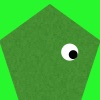
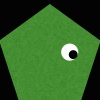
makekbstims working great! It's pretty slow though.

diff --git a/Stims/makeKenBurnsStims.m b/Stims/makeKenBurnsStims.m
@@ -137,35 +137,35 @@ for a=1:length(manners)
                     m_images(:,:,:,prefix+lens+k) = newimg;
                 end
                 
-                %KEN BURNS TIME!
-                %Calculate a (random) path for the movie to move around on
-                %the larger background, then plot everything into the
-                %bigger matrix.
+%                 %KEN BURNS TIME!
+%                 %Calculate a (random) path for the movie to move around on
+%                 %the larger background, then plot everything into the
+%                 %bigger matrix.
+%                 
+%                 %how long is the movie? Check here in case of mistakes :p 
+%                 final_len = size(m_images,4);
+%                 
+%                 kb_back = zeros(750, 1000, 3, final_len); %height, width, colors, length-in-frames
+%                 [kb_x, kb_y] = getKBPath(150, 200, final_len, 60); %30-fast 60-slow
+%                 
+%                 %this returns a random bounce-around in the box (diff 
+%                 %between small & big frames)that takes the final # of
+%                 %frames to move 1 segment.
+%                 
+%                 %Now plot my movie into the bigger (all black) movie!
+%                 
+%                 clear final_images;
+%                 
+%                 for i = 1:final_len
+%                     %draw movie on background! 
+%                     movToDraw = m_images(:,:,:,i);
+%                     [t, u, v] = size(movToDraw);
+%                     
+%                     newimg = placeImg(movToDraw, kb_back(:,:,:,i), kb_x(i),kb_y(i));
+%                     final_images(:,:,:,i) = newimg;
+%                 end
                 
-                %how long is the movie? Check here in case of mistakes :p 
-                final_len = size(m_images,4);
-                
-                kb_back = zeros(750, 1000, 3, final_len); %height, width, colors, length-in-frames
-                [kb_x, kb_y] = getKBPath(150, 200, final_len, 60); %30-fast 60-slow
-                
-                %this returns a random bounce-around in the box (diff 
-                %between small & big frames)that takes the final # of
-                %frames to move 1 segment.
-                
-                %Now plot my movie into the bigger (all black) movie!
-                
-                clear final_images;
-                
-                for i = 1:final_len
-                    %draw movie on background! 
-                    movToDraw = m_images(:,:,:,i);
-                    [t, u, v] = size(movToDraw);
-                    
-                    newimg = placeImg(movToDraw, kb_back(:,:,:,i), kb_x(i),kb_y(i));
-                    final_images(:,:,:,i) = newimg;
-                end
-                
-                %final_images = m_images;
+                final_images = m_images;
 
                 
    
